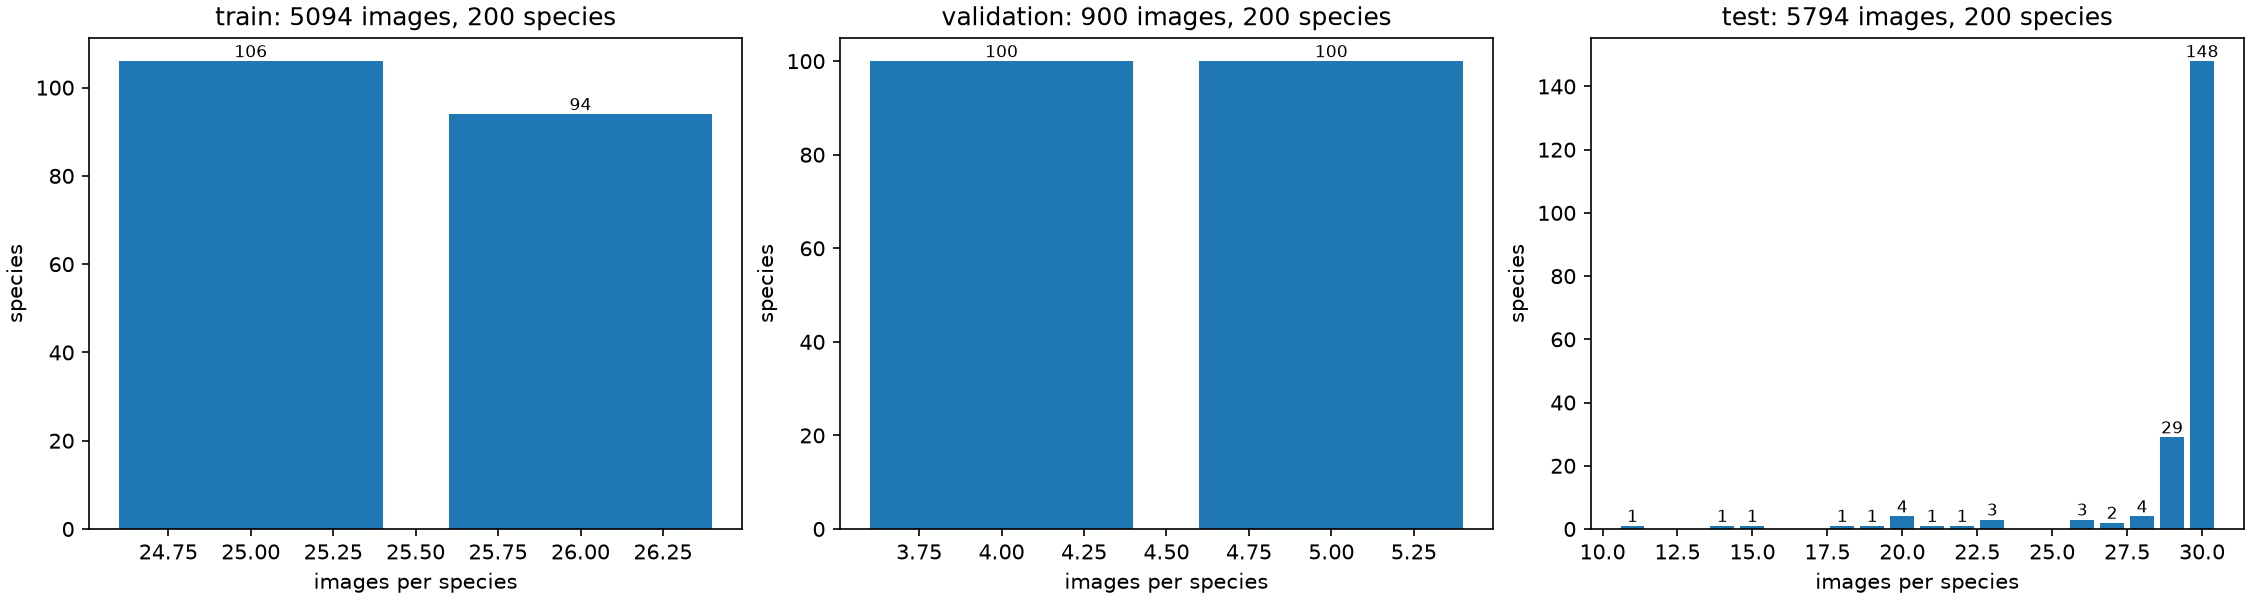
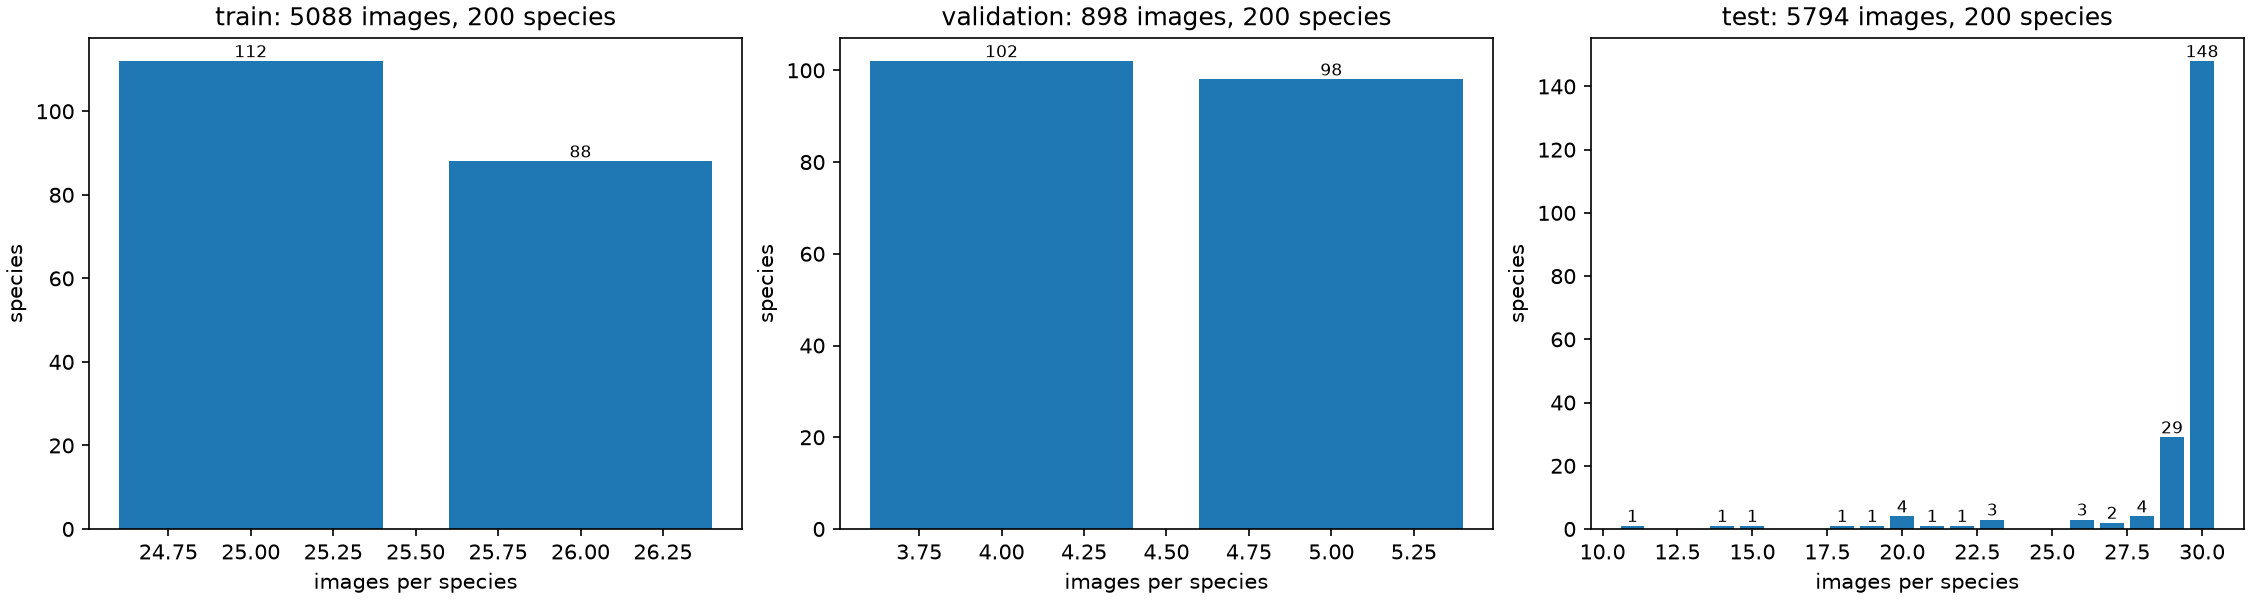
fixes: drop duplicate train images before split, caption cleaning edge cases, reproducible augmentation figure

diff --git a/src/data/caption_cleaning.py b/src/data/caption_cleaning.py
@@ -32,6 +32,29 @@ TYPO_FIXES = {
     "iwth": "with", "witha": "with a", "redish": "reddish", "poitned": "pointed", "larsus": "tarsus",
 }
 
+# Contractions after the apostrophe is removed ("that's" -> "thats"). "its" is left alone: captions use
+# "it's" for both "it is" and the possessive, and "its" reads correctly either way.
+CONTRACTIONS = {
+    "thats": "that is", "theres": "there is", "whos": "who is", "hes": "he is", "theyre": "they are",
+    "doesnt": "does not", "dont": "do not", "cant": "can not",
+}
+
+# Written with a hyphen or a space, but one word: "multi-colored" -> "multicolored", "white-ish" -> "whiteish".
+PREFIXES = {"multi"}
+SUFFIXES = {"ish"}
+
+MIN_WORDS = 3  # shorter lines ("this") describe nothing; the shortest real captions are like "a red bird"
+
+
+def _join_affixes(words):
+    joined = []
+    for word in words:
+        if joined and (word in SUFFIXES or joined[-1] in PREFIXES):
+            joined[-1] += word
+        else:
+            joined.append(word)
+    return joined
+
 
 def clean_caption(text):
     """Normalize one caption: lowercase, fix punctuation/whitespace, correct known typos."""
@@ -39,14 +62,14 @@ def clean_caption(text):
     text = text.replace("-", " ")
     text = re.sub(r"['`]", "", text)           # bird's -> birds
     text = re.sub(r"[^a-z\s]", " ", text)      # punctuation, digits and corrupted characters -> space
-    words = text.split()                        # also collapses whitespace
-    return " ".join(TYPO_FIXES.get(w, w) for w in words)
+    words = _join_affixes(text.split())         # split also collapses whitespace
+    return " ".join(CONTRACTIONS.get(w, TYPO_FIXES.get(w, w)) for w in words)
 
 
 def clean_description(description):
-    """Split a raw description on newlines and return its cleaned, non-empty, unique captions."""
+    """Split a raw description on newlines and return its cleaned, unique captions of at least MIN_WORDS words."""
     captions = [clean_caption(c) for c in description.split("\n")]
-    captions = [c for c in captions if c]       # drop empty
+    captions = [c for c in captions if len(c.split()) >= MIN_WORDS]  # drop empty and too short
     return list(dict.fromkeys(captions))        # drop duplicates, keep first copy and order
 
 

diff --git a/src/cleaning.py b/src/cleaning.py
@@ -7,13 +7,20 @@ from src.data import caption_stats
 from src.data.class_stats import class_counts
 from src.data.loader import class_names
 from src.data.prepare import prepare_splits
+from src.data.splits import duplicate_train_files
 from src.eda import run_caption_eda
 from src.visualization import eda_plots
 
 
 def run_cleaning(splits, val_fraction: float, seed: int, out_dir: Path, fig_dir: Path, table_dir: Path,
-                 plots: bool = True) -> None:
-    data = prepare_splits(splits["train"], splits["test"], val_fraction, seed)
+                 duplicates_path: Path, plots: bool = True) -> None:
+    if not duplicates_path.exists():
+        raise SystemExit(f"{duplicates_path} not found: run `python -m src.cli eda --part images` first")
+    drop_files = duplicate_train_files(pd.read_csv(duplicates_path))
+    print(f"\n=== dropping {len(drop_files)} duplicate train images before splitting (test is not changed)")
+    print("\n".join(sorted(drop_files)))
+
+    data = prepare_splits(splits["train"], splits["test"], val_fraction, seed, drop_files)
     split_names = list(data.keys())
 
     print_cleaning_report(data)
@@ -45,9 +52,11 @@ def print_cleaning_report(data) -> None:
         raw, cleaned = list(split["description"]), list(split["captions"])
         funnel = caption_stats.cleaning_funnel(caption_stats.split_lines(raw), cleaned)
         per_image = pd.Series([len(captions) for captions in cleaned])
+        long_enough = funnel.iloc[2]  # captions with at least MIN_WORDS words
         rows[name] = {"images": len(cleaned), **funnel.to_dict(),
                       "empty dropped": int(funnel["lines after split"] - funnel["non-empty"]),
-                      "duplicates dropped": int(funnel["non-empty"] - funnel["unique (kept)"]),
+                      "too short dropped": int(funnel["non-empty"] - long_enough),
+                      "duplicates dropped": int(long_enough - funnel["unique (kept)"]),
                       "min per image": per_image.min(), "max per image": per_image.max()}
     print(pd.DataFrame(rows).to_string())
 

diff --git a/src/cli.py b/src/cli.py
@@ -1,4 +1,5 @@
 import argparse
+import sys
 from pathlib import Path
 
 from src.augmentation import run_augmentation_demo
@@ -8,6 +9,9 @@ from src.eda import run_caption_eda, run_class_eda, run_image_eda
 
 
 def main() -> None:
+    # captions contain characters like U+FFFD; print them as � instead of crashing on
+    # consoles or redirected output that cannot encode them (e.g. cp1252 on Windows)
+    sys.stdout.reconfigure(errors="backslashreplace")
     parser = argparse.ArgumentParser(prog="python -m src.cli")
     sub = parser.add_subparsers(dest="command", required=True)
 
@@ -24,6 +28,8 @@ def main() -> None:
     clean.add_argument("--out-dir", default="data/processed", help="Where to save the cleaned splits")
     clean.add_argument("--fig-dir", default="outputs/figures", help="Where to save figures")
     clean.add_argument("--table-dir", default="outputs/tables", help="Where to save CSV tables")
+    clean.add_argument("--duplicates", default="outputs/tables/duplicate_pairs.csv",
+                       help="Duplicate image pairs from `eda --part images`; their train copies are dropped")
     clean.add_argument("--no-plots", action="store_true", help="Skip the figures")
 
     augment = sub.add_parser("augment", help="Save a figure of train images before and after the train augmentation")
@@ -48,7 +54,7 @@ def main() -> None:
             run_caption_eda(splits, Path(args.fig_dir), Path(args.table_dir))
     elif args.command == "clean":
         run_cleaning(load_cub(args.cache_dir), args.val_fraction, args.seed, Path(args.out_dir),
-                     Path(args.fig_dir), Path(args.table_dir), plots=not args.no_plots)
+                     Path(args.fig_dir), Path(args.table_dir), Path(args.duplicates), plots=not args.no_plots)
     elif args.command == "augment":
         run_augmentation_demo(load_cub(args.cache_dir), Path(args.fig_dir), args.index, args.n_images,
                               args.n_augmented, args.image_size, args.seed)

diff --git a/src/data/prepare.py b/src/data/prepare.py
@@ -5,14 +5,18 @@ from src.data.caption_cleaning import clean_descriptions
 from src.data.splits import split_train_val
 
 
-def prepare_splits(train, test, val_fraction=0.15, seed=42):
+def prepare_splits(train, test, val_fraction=0.15, seed=42, drop_files=None):
     """Clean the `description` column of both datasets and split off a validation set.
 
     `train` and `test` are Hugging Face Datasets that are already loaded.
+    `drop_files` are train file names removed before splitting (duplicates, see splits.duplicate_train_files).
     Returns a DatasetDict with "train", "validation" and "test"; each has a "captions" column
     (cleaned list of captions per image) next to the raw "description".
     With val_fraction=None or 0 there is no validation split, only "train" and "test".
     """
+    if drop_files:
+        train = train.filter(lambda file_name: file_name not in drop_files, input_columns="file_name")
+
     # clean before splitting so every split carries its captions
     train = train.add_column("captions", clean_descriptions(train["description"]))
     test = test.add_column("captions", clean_descriptions(test["description"]))

diff --git a/src/data/caption_stats.py b/src/data/caption_stats.py
@@ -9,7 +9,7 @@ from collections import Counter
 import pandas as pd
 from spellchecker import SpellChecker
 
-from src.data.caption_cleaning import TYPO_FIXES, clean_caption
+from src.data.caption_cleaning import MIN_WORDS, TYPO_FIXES, clean_caption
 
 
 def split_lines(descriptions: list) -> pd.Series:
@@ -33,11 +33,12 @@ def per_image_counts(descriptions: list, cleaned: list) -> pd.DataFrame:
 
 
 def cleaning_funnel(lines: pd.Series, cleaned: list) -> pd.Series:
-    """Caption count after each cleaning stage: split, drop empty, drop duplicates."""
-    non_empty = sum(1 for line in lines if clean_caption(line))
+    """Caption count after each cleaning stage: split, drop empty and too short, drop duplicates."""
+    word_counts_ = [len(clean_caption(line).split()) for line in lines]
     return pd.Series({
         "lines after split": len(lines),
-        "non-empty": non_empty,
+        "non-empty": sum(1 for n in word_counts_ if n > 0),
+        f">= {MIN_WORDS} words": sum(1 for n in word_counts_ if n >= MIN_WORDS),
         "unique (kept)": sum(len(captions) for captions in cleaned),
     })
 

diff --git a/src/data/splits.py b/src/data/splits.py
@@ -1,4 +1,19 @@
 """Train/validation splitting."""
+import pandas as pd
+
+
+def duplicate_train_files(pairs: pd.DataFrame) -> set:
+    """Train images to drop before splitting, from the duplicate pairs found by `eda --part images`.
+
+    - the train copy of a photo that is also in test: we would otherwise train on test images (leakage)
+    - the second copy of a photo that is in train twice: it adds nothing, and the two copies could
+      end up one in train and one in validation
+    Test is never changed, so scores stay comparable with published CUB results.
+    """
+    cross = pairs[pairs["split_a"] != pairs["split_b"]]
+    train_copies = cross["file_a"].where(cross["split_a"] == "train", cross["file_b"])
+    within_train = pairs[(pairs["split_a"] == "train") & (pairs["split_b"] == "train")]
+    return set(train_copies) | set(within_train["file_b"])
 
 
 def split_train_val(train, val_fraction=0.15, seed=42):

diff --git a/src/eda.py b/src/eda.py
@@ -111,9 +111,10 @@ def print_caption_report(raw, lines, cleaned, per_image, words_before, words_aft
     print("lines per description:", per_image["lines"].value_counts().to_dict())
     print(f"images with an empty line: {(per_image['empty'] > 0).sum()}, "
           f"empty lines that are not the last line: {(per_image['empty'] > 1).sum()}")
+    funnel = caption_stats.cleaning_funnel(lines["train"], cleaned["train"])
     print(f"images with duplicate captions: {(per_image['duplicates'] > 0).sum()} "
           f"({per_image['duplicates'].sum()} duplicate lines as written; cleaning drops "
-          f"{(per_image['lines'] - per_image['empty'] - per_image['kept']).sum()}, because once punctuation "
+          f"{funnel.iloc[2] - funnel['unique (kept)']}, because once punctuation "
           f"is removed more lines become identical)")
 
     print("\n=== formatting issues (raw train lines)")

diff --git a/src/visualization/eda_plots.py b/src/visualization/eda_plots.py
@@ -178,8 +178,8 @@ def plot_duplicates_per_image(per_image: pd.DataFrame, path: Path) -> None:
 
 def plot_cleaning_funnel(funnel: pd.Series, path: Path) -> None:
     """Caption count after each cleaning stage."""
-    fig, ax = plt.subplots(figsize=(6, 4), layout="constrained")
-    bars = ax.bar(funnel.index, funnel.values, color=["tab:gray", "tab:blue", "tab:green"])
+    fig, ax = plt.subplots(figsize=(8, 4), layout="constrained")
+    bars = ax.bar(funnel.index, funnel.values, color=["tab:gray", "tab:blue", "tab:cyan", "tab:green"])
     ax.bar_label(bars)
     ax.set_ylabel("captions")
     ax.set_title("Caption count at each cleaning stage (train)")
